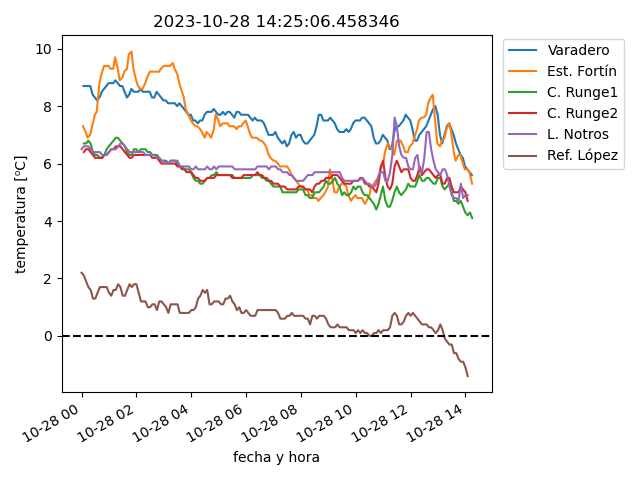
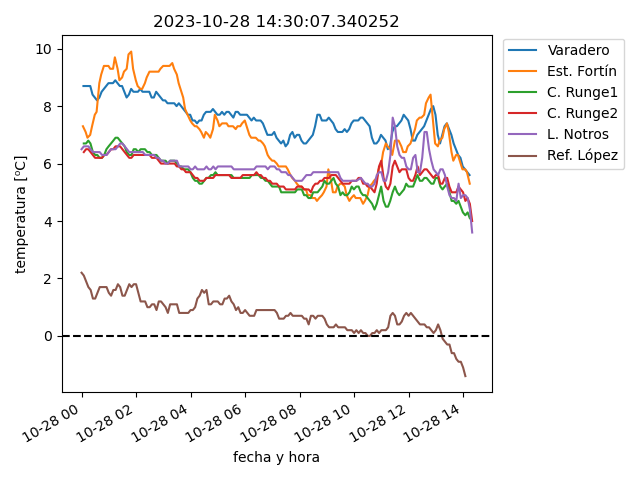
actualiza datos

diff --git a/estaciones/estacion4.html b/estaciones/estacion4.html
@@ -13,42 +13,42 @@
     </tr>
     <tr>
      <td class="stats_data">
-      2023-10-28 14:04:58
+      2023-10-28 14:19:54
      </td>
     </tr>
     <tr>
      <td class="stats_data">
-      TEMPERATURA / 4.0⁰C
+      TEMPERATURA / 3.0⁰C
      </td>
     </tr>
     <tr>
      <td class="stats_data">
-      95.2%
+      93.3%
      </td>
     </tr>
     <tr>
      <td class="stats_data">
-      990.72hPa
+      992.04hPa
      </td>
     </tr>
     <tr>
      <td class="stats_data">
-      2.6/4.4 km/hr SW
+      4.9/8.2 km/hr S
      </td>
     </tr>
     <tr>
      <td class="stats_data">
-      24.1 / 1.19 mm
+      24.41 / 1.8 mm
      </td>
     </tr>
     <tr>
      <td class="stats_data">
-      3.0
+      1.0
      </td>
     </tr>
     <tr>
      <td class="stats_data">
-      368.4 W/m²
+      122.7 W/m²
      </td>
     </tr>
    </tbody>

diff --git a/estaciones/estacion5.html b/estaciones/estacion5.html
@@ -13,22 +13,22 @@
     </tr>
     <tr>
      <td class="stats_data">
-      2023-10-28 14:05:00
+      2023-10-28 14:20:00
      </td>
     </tr>
     <tr>
      <td class="stats_data">
-      TEMPERATURA / 3.8⁰C
+      TEMPERATURA / 2.2⁰C
      </td>
     </tr>
     <tr>
      <td class="stats_data">
-      92.0%
+      91.0%
      </td>
     </tr>
     <tr>
      <td class="stats_data">
-      991.37hPa
+      993.87hPa
      </td>
     </tr>
     <tr>
@@ -38,7 +38,7 @@
     </tr>
     <tr>
      <td class="stats_data">
-      28.7 / 1.52 mm
+      29.21 / 1.78 mm
      </td>
     </tr>
     <tr>
